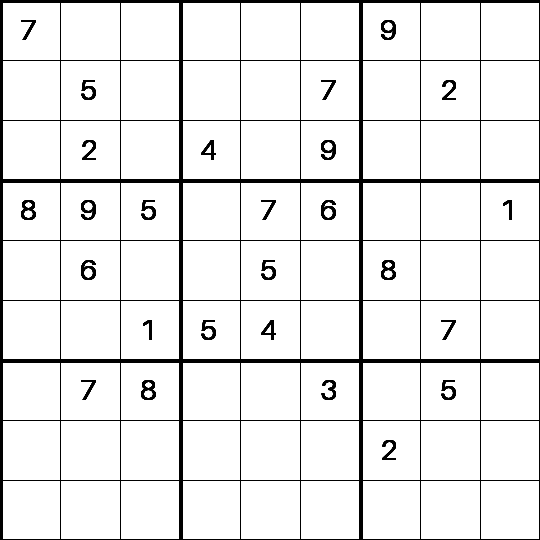
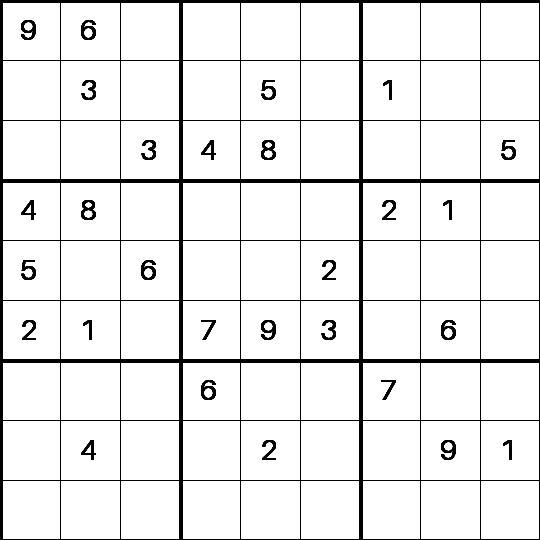
Добавил считения из файла и терминала. Начинал писать сам алгоритм (пока что только имплементация классов individual и population и рандомное заполнение поля

diff --git a/sudoku_solver/algorithm.py b/sudoku_solver/algorithm.py
@@ -1,0 +1,53 @@
+import generate_field as gf
+import random
+import copy
+
+field = gf.generate_puzzle()
+print(field[1].tolist())
+
+class Individual:
+    def __init__(self, field):
+        # self.id = random.randInt(1000,9999)
+        self.currentMatrix = [row[:] for row in field]
+        self.fitness = 0
+        # self.population
+        self._fill_empty()
+        self._calculate_fitness()
+    def _fill_empty_cells(self):
+        for row in range(9):
+            empty = [n for n in range(1,10) if n not in self.currentMatrix[row]]
+            random.shuffle(empty) # nice hack)
+
+            for col in range(9):
+                if self.currentMatrix[row][col] == 0:
+                    self.currentMatrix[row][col] = empty.pop()
+    def _calculate_fitness(self):
+        conflicts = 0 # Тем ниже конфликты, тем лучше. Если конфликт = 0, значит это
+                        # действительное решениеo
+        for row in range(9):
+            seen = set()
+            for row in range(9):
+                if currentMatrix[row][col] in seen:
+                    conflicts += 1
+                seen.add(currentMatrix[row][col])
+        # надо тоже отдельно проверить каждую 3x3 площадку
+        for b_row in range(0,9,3): # nice hack)
+            for b_col in range(0,9,3):
+                seen = set()
+                for row in range(b_row, b_row+3):
+                    for col in range(b_col, b_col+3):
+                        if self.currentMatrix[row][col] in seen:
+                            conflicts += 1
+                        seen.add(self.currentMatrix[row][col])
+        self.fitness = conflicts
+
+class Population:
+    def __init__(self, field, size = 100):
+        self.Individuals = [Individual(field), for _ in range(size)]
+        self.fittest = int('inf')
+        self.avg_fitness:float = 0
+        self._update()
+    def _update(self):
+        fitness = [i.fitness for i in self.Individuals]
+        self.fittest = min(fitness)
+        self.avg_fitness = sum(fitness) / len(fitness)

diff --git a/sudoku_solver/generate_field.py b/sudoku_solver/generate_field.py
@@ -3,6 +3,7 @@ from pprint import pprint
 import numpy as np
 from PIL import Image, ImageDraw, ImageFont
 import time
+from os import sys
 
 def generate_puzzle():
     field = generators.random_sudoku(avg_rank=100)
@@ -15,6 +16,54 @@ def get_solution(field):
     solution_np = np.array(list(str(solution)), dtype=int).reshape(9, 9)
 
     return solution, solution_np
+def field_from_input():
+    field = []
+    line_num = 0
+    for line in sys.stdin:
+        line_num += 1
+        if line_num > 9:
+            break
+        line = line.strip()
+        if not line:
+            continue
+        row = [int(x) for x in line.split()]
+        if(len(row) != 9):
+            raise ValueError("Row should be 9 digits long")
+        for i in row:
+            if i < 0 or i>9:
+                raise ValueError(f"Element on position {i+1}, line {line_num+1} is out of range")
+        field.append(row)
+    return field
+def field_from_file(filename):
+    field = []
+    line_num = 0
+
+    try:
+        with open(filename, 'r') as file:
+            
+            for line in file:
+                line_num += 1
+                if line_num > 9:
+                    break
+
+                line = line.strip()
+
+                if not line:
+                    continue
+
+                row = [int(x) for x in line.split()]
+
+                if(len(row) != 9):
+                    raise ValueError("Row should be 9 digits long")
+
+                for i in row:
+                    if i < 0 or i>9:
+                        raise ValueError(f"Element on position {i+1}, line {line_num+1} is out of range")
+                field.append(row)
+    except FileNotFoundError as f:
+        print(f"file {filename} not found")
+    return field
+
 
 def field_to_img(field_np, cell_size=60, line_color = 'black', text_color='black', bg='white'): # 0.114502... - Время выполнения
     width = height = cell_size * 9